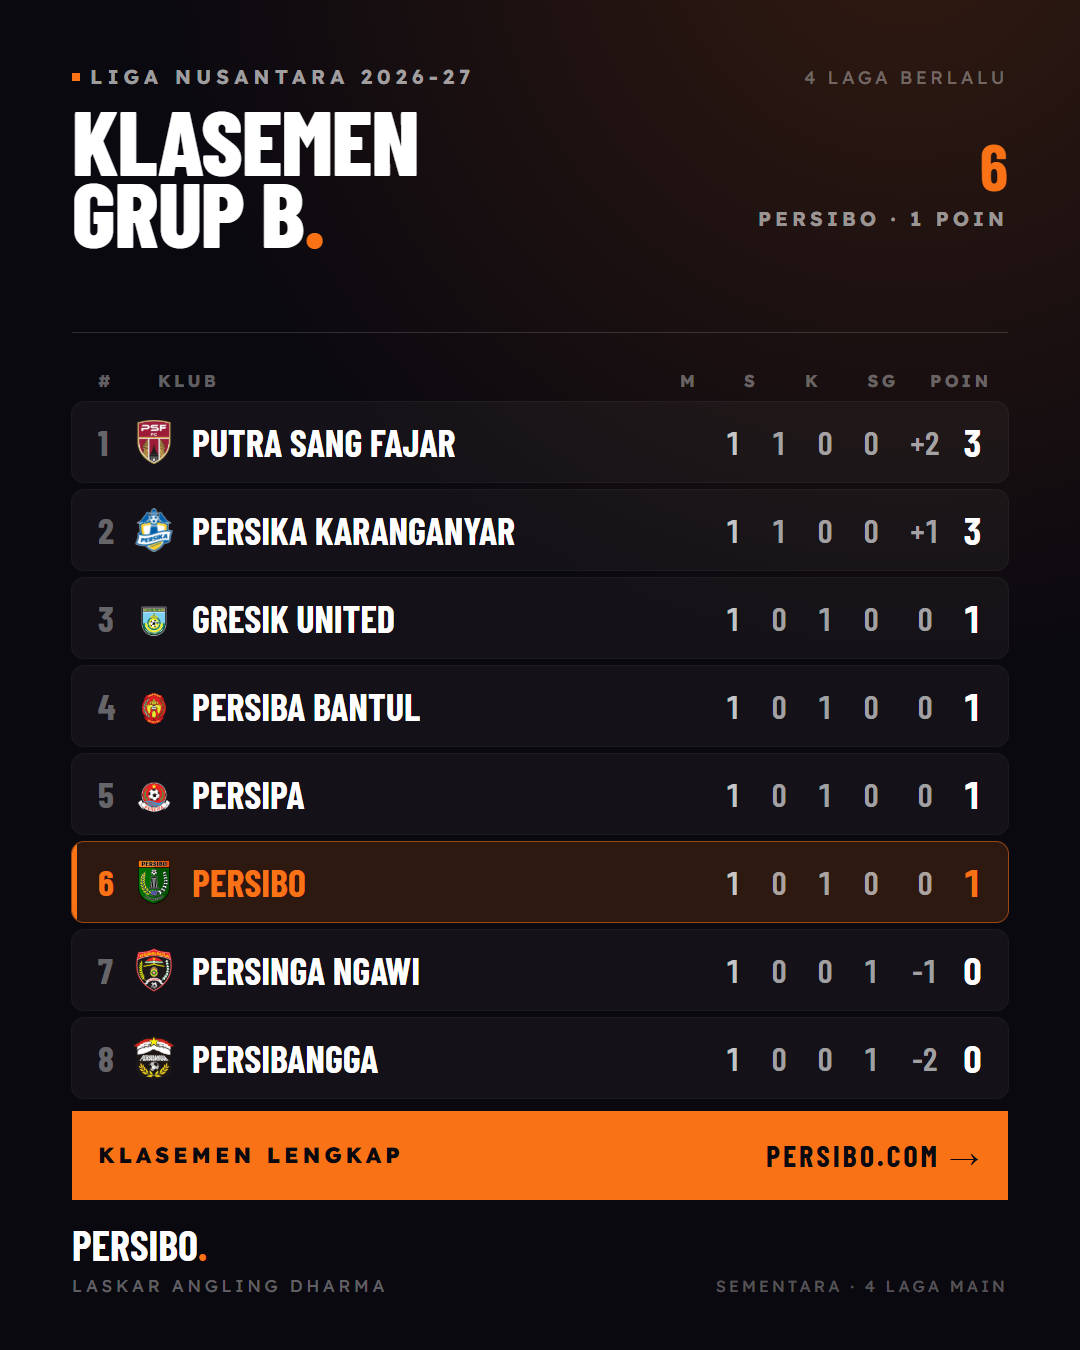
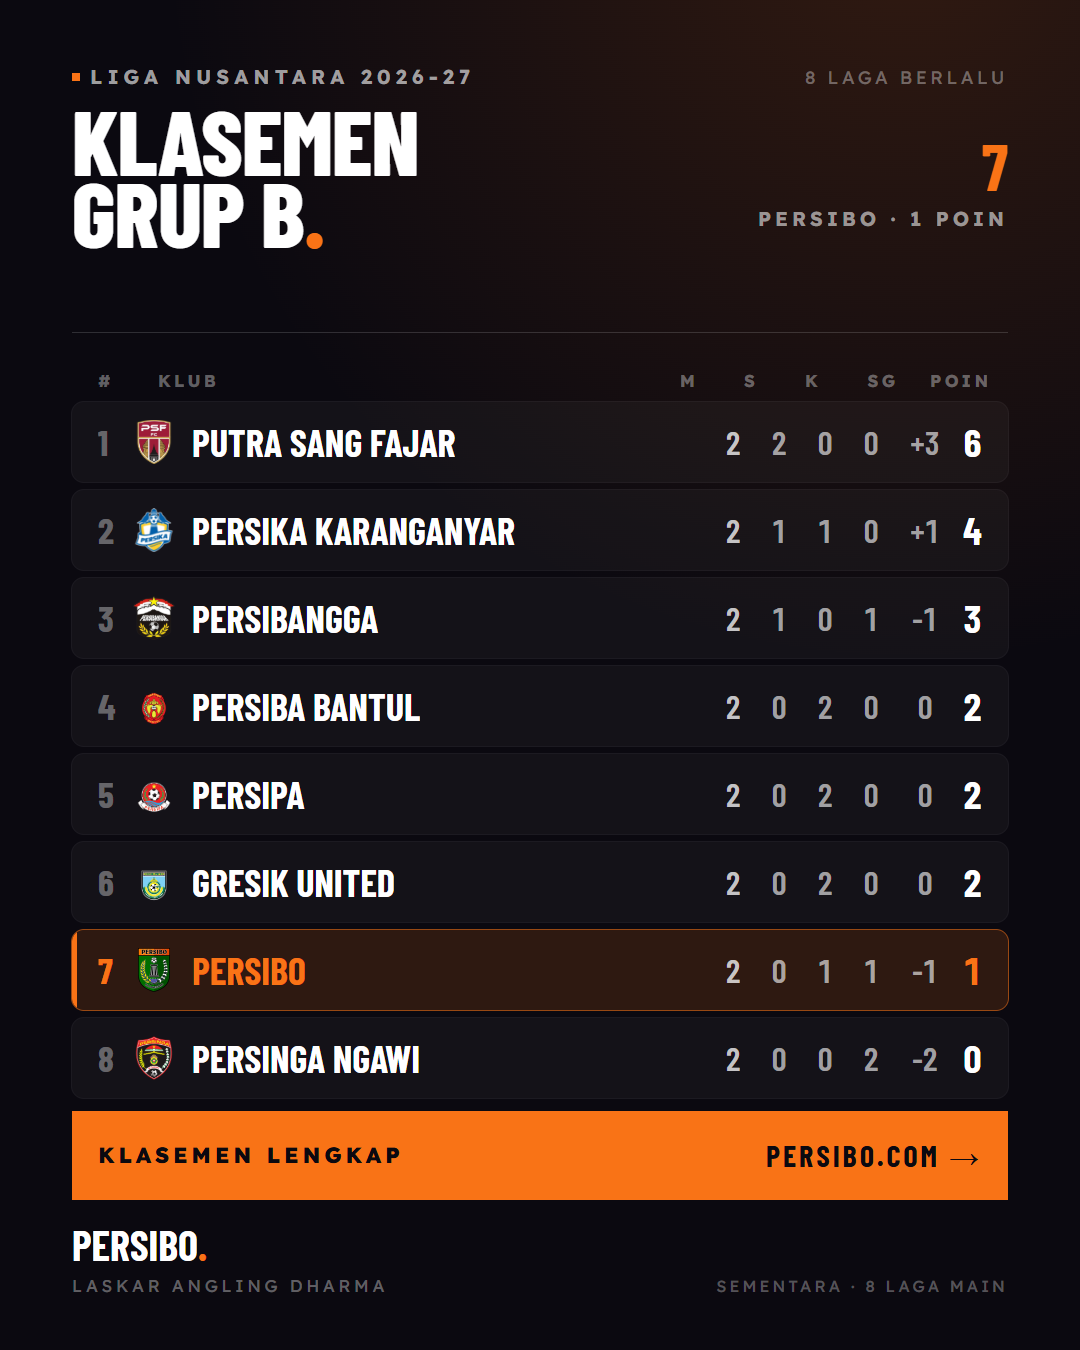
data: match report Persibangga dan poster klasemen terbaru
- Isi `matchDetails.json` dari match report resmi: menit gol 32'/48'/90+4', lima kartu kuning, delapan pergantian, 277 penonton.
- Poster hasil dan caption memakai menit resmi.
- Render ulang poster klasemen Grup B dari data setelah matchday 2.

diff --git a/CHANGELOG.md b/CHANGELOG.md
@@ -7,10 +7,11 @@ dan proyek ini mengikuti [Semantic Versioning](https://semver.org/lang/id/).
 
 ## [Unreleased]
 ### Added
+- Match report resmi laga Persibangga–Persibo (18 November) masuk `matchDetails.json`: menit gol 32'/48'/90+4', lima kartu kuning (Marvin 7', Tuasalimony 64', Latuconsina 64', Fathur Yan 74', Rio Valentino 88'), delapan pergantian termasuk HT, dan 277 penonton. Timeline dan `LineupPitch` kini memuat semua kejadian; HT dicatat 46' agar urut sebelum gol 48'. Poster `hasil-persibangga.png` dan caption ikut memakai menit resmi.
 - Beranda menampilkan dua hasil terakhir: kartu besar untuk laga terbaru dan kartu kecil untuk laga sebelumnya, keduanya tautan ke halaman detail. Jadi hasil Persipa 0-0 tidak hilang begitu matchday 2 selesai.
 - Lineup laga 18 November masuk data situs dari e-start list panitia: XI dan cadangan PERSIBANGGA PURBALINGGA serta PERSIBO Bojonegoro, pelatih, dan perangkat laga di `src/data/seasons/2026-27/matchDetails.json`. Halaman `/pertandingan/2026-11-18-persibangga-purbalin-vs-persibo-bojonegoro` menampilkan keduanya sebelum kick-off, skor tetap kosong sampai laga selesai. Entri ditulis tangan, scrape detail berikutnya akan menggantikannya dengan data iLeague. Field `captain` di `MatchDetailPlayer` menandai ANGGER dan ILHAM IRHAZ sebagai badge C di `LineupPitch`; poster lineup memakai `Angger (C)`. Caption di `social/captions.md` nomor 10.
 - Poster `lineup-persibangga.png` dari e-start list 18 November: XI 4-3-3 (A. Fernandi; Angger, Shevanton, Rio Valentino, Rangga; Marvin, M. Syahril, O. Chanigio; Romeo, Sehabudin, Putra Chaniago) + 10 pengganti sampai Jojo #76. Semua nomor punggung cocok dengan `players.json`, jadi foto tidak tertukar; pelatih I Putu Gede Swi Santoso.
-- Poster hasil tandang Persibangga (`hasil-persibangga.png`, 18 November): 2-1 untuk tuan rumah, gol USAMA menit 31, SEHABUDIN menit 47, dan F. ARYA menit 90+5, badge KALAH. Mode `hasil` juga menerima field `babak` untuk poster skor sementara, dengan skor kosong tampil `-:-` abu-abu. Nama klub kini memangkas akhiran PURBALINGGA.
+- Poster hasil tandang Persibangga (`hasil-persibangga.png`, 18 November): 2-1 untuk tuan rumah, gol USAMA menit 32, SEHABUDIN menit 48, dan F. ARYA menit 90+4, badge KALAH. Mode `hasil` juga menerima field `babak` untuk poster skor sementara, dengan skor kosong tampil `-:-` abu-abu. Nama klub kini memangkas akhiran PURBALINGGA.
 - Skuad 2026-27 di `players.json`: 29 pemain PERSIBO Bojonegoro disadur dari halaman klub iLeague (`/clubs/single/liga_nusantara_2026-27/PERSIBO_Bojonegoro`), menggantikan skuad arsip 2025-26 di halaman `/tim` dan `/pemain`. Foto dicerminkan dari `assets.ileague.id` ke `/img/players/` lewat `npm run fetch-assets` (28 dari 29; DIDIK. S belum punya foto di iLeague — URL-nya 404 — jadi `photo_url` dikosongkan agar tampil placeholder, bukan gambar rusak). Label & komentar usang "skuad 2025-26 / pendaftaran belum dibuka" di `/tim`, `/pemain`, `dataLoader`, dan `AGENT.md` diperbarui. Scraper `.scratch/scrape_ileague_2026_27_players.py` (parse → `npm run fetch-assets` → `--finalize`).
 - Berita hasil uji coba terakhir: Persibo 1-1 PSN Ngada, 6 November 2026. Artikel `/tim/berita/persibo-ditahan-imbang-psn-ngada-1-1-uji-coba` memuat gol Wiraja menit 10, rekor pramusim 5-2-2 dari sembilan laga, konteks PSN Ngada sebagai pengganti Persekabpas, target promosi, dan laga pembuka 13 November. Gambar pakai poster hasil yang sudah ada (`/img/persibo-psn-ngada.png`), bukan foto laga lain.
 - Poster hasil uji coba PSN Ngada (`hasil-psn-ngada.png`): skor 1-1, badge Seri, gol Wiraja menit 10. Laga 6 November di `friendlies.json` kini berisi skor dan pencetak gol, jadi beranda menampilkan kartu hasil dan tawaran tiket hilang. `FriendlyScorer.minute` opsional; blok skor mode `hasil` menyerap sisa ruang agar tidak ada pita kosong di atas CTA.
@@ -60,7 +61,7 @@ dan proyek ini mengikuti [Semantic Versioning](https://semver.org/lang/id/).
 - Posisi dan musim di tabel menempel tanpa spasi di mobile ("P. GAWANG2025-26") karena keduanya sebaris flex; sekarang bertumpuk.
 
 ### Changed
-- Klasemen Liga Nusantara 2026-27 diperbarui dari iLeague setelah matchday 2 (18 November). Persibangga naik ke posisi 3 Grup B lewat kemenangan 2-1; Persibo turun ke posisi 7 dengan 1 poin dari dua laga. `fixtures.json` menandai laga selesai, `matchDetails.json` mencatat tiga gol: USAMA 31', SEHABUDIN 47', F. ARYA 90+5'. Scraper `.scratch/scrape_ileague.py` kini mempertahankan jam kick-off laga selesai yang sebelumnya hilang saat scrape berikutnya.
+- Klasemen Liga Nusantara 2026-27 diperbarui dari iLeague setelah matchday 2 (18 November). Persibangga naik ke posisi 3 Grup B lewat kemenangan 2-1; Persibo turun ke posisi 7 dengan 1 poin dari dua laga. `fixtures.json` menandai laga selesai, `matchDetails.json` mencatat tiga gol: USAMA 32', SEHABUDIN 48', F. ARYA 90+4' (dari match report resmi). Scraper `.scratch/scrape_ileague.py` kini mempertahankan jam kick-off laga selesai yang sebelumnya hilang saat scrape berikutnya.
 - `/live` memutar PERSIBANGGA Purbalingga vs PERSIBO Bojonegoro (Liga Nusantara 2026/27), video `UOjP1O_0qHc`. Judul, embed, tautan YouTube, dan gambar OG ikut memakai id baru.
 - Portrait ofisial diganti versi terbaru iLeague. Halaman klub menunjuk path `official/101/29/`, yang berisi foto musim 2026-27 (jersey putih/ungu); path lama `official/OF...` masih menyimpan foto musim sebelumnya. File di `assets.ileague.id` untuk path baru balas 404, jadi `officials.json` memakai URL `liasfiles.ileague.id:8443` yang benar-benar melayani gambarnya (ekstensi `.jpg`). Delapan portrait dicerminkan ulang ke `public/img/officials/`.
 - Ofisial 2026-27 diperbarui dari iLeague: 8 orang (sebelumnya 3). Tambahan pelatih kiper, analis, dokter tim, dan fotografer; Rian Ikrawansyah tetap sekretaris, Tisna Wijaya kini berbagi posisi masseur dengan Dio Kevin Alief Utama. Semua portrait dicerminkan ke `public/img/officials/` dan tercatat di `assets-manifest.json`. `fetch-assets` menandai foto ofisial sebagai musim 2026-27 (sebelumnya hardcode 2025-26).

diff --git a/social/captions.md b/social/captions.md
@@ -169,7 +169,7 @@ Tandang pertama: Persibangga vs Persibo, Rabu 18 November, 15.30 WIB, Trisanja, 
 
 Persibangga 2-1 Persibo.
 
-USAMA membuka skor menit 31. SEHABUDIN menyamakan menit 47. F. ARYA memastikan kemenangan tuan rumah di menit 90+5.
+USAMA membuka skor menit 32. SEHABUDIN menyamakan menit 48. F. ARYA memastikan kemenangan tuan rumah di menit 90+4.
 
 Persibo pulang tanpa poin. Skor dan klasemen di persibo.com.
 
@@ -177,7 +177,7 @@ Persibo pulang tanpa poin. Skor dan klasemen di persibo.com.
 
 ### Versi pendek (story / X)
 
-Hasil akhir: Persibangga 2-1 Persibo. USAMA menit 31, SEHABUDIN menit 47, F. ARYA menit 90+5.
+Hasil akhir: Persibangga 2-1 Persibo. USAMA menit 32, SEHABUDIN menit 48, F. ARYA menit 90+4.
 
 ---
 
